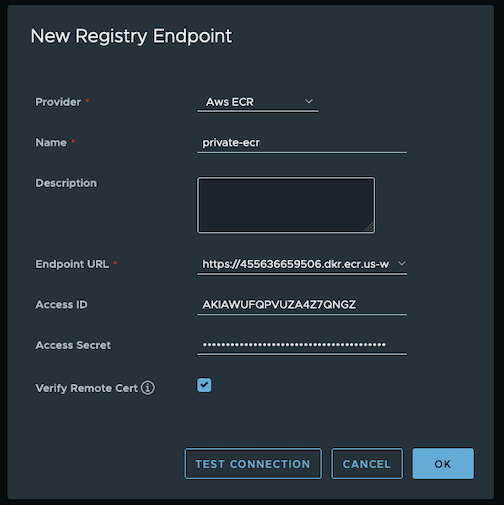
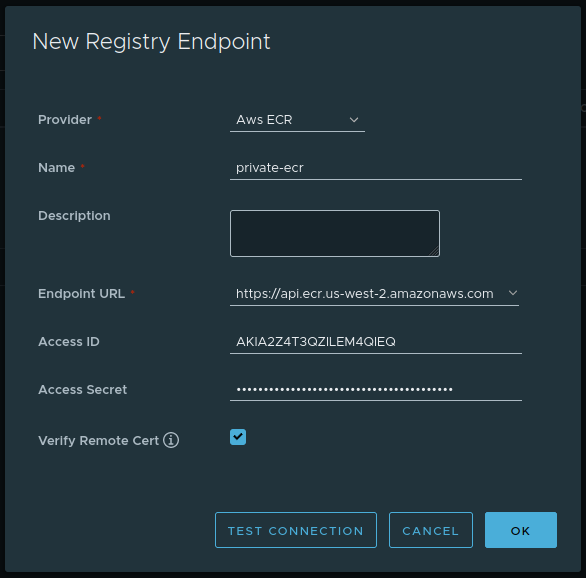
Fix ECR endpoint URL in Harbor use-case doc (#5337)

diff --git a/docs/content/en/docs/workshops/packages/harbor.md b/docs/content/en/docs/workshops/packages/harbor.md
@@ -84,7 +84,7 @@ This use case is to use Harbor to proxy and cache images from a private ECR repo
 
         ![Harbor private ecr user](/images/harbor-private_ecr_user.png)
 
-    Navigate to `Registries` on the left panel, and then click on `NEW ENDPOINT` button. Choose `Aws ECR` as Provider, and enter `private-ecr` as Name, `https://[ACCOUNT NUMBER].dkr.ecr.us-west-2.amazonaws.com/` as Endpoint URL, use the access key ID part of the generated access key as Access ID, and use the secret access key part of the generated access key as Access Secret. Save it by click on OK.
+    Navigate to `Registries` on the left panel, and then click on `NEW ENDPOINT` button. Choose `Aws ECR` as Provider, and enter `private-ecr` as Name, `https://api.ecr.[REGION].amazonaws.com/` as Endpoint URL, use the access key ID part of the generated access key as Access ID, and use the secret access key part of the generated access key as Access Secret. Save it by click on OK.
 
     ![Harbor private ecr proxy](/images/harbor-private_ecr_proxy.png)
 
@@ -159,7 +159,7 @@ This use case is to use Harbor to replicate local images and charts to a private
 
         ![Harbor private ecr user](/images/harbor-private_ecr_user.png)
 
-    Navigate to `Registries` on the left panel, and then click on the `NEW ENDPOINT` button. Choose `Aws ECR` as the Provider, and enter `private-ecr` as the Name, `https://[ACCOUNT NUMBER].dkr.ecr.us-west-2.amazonaws.com/` as the Endpoint URL, use the access key ID part of the generated access key as Access ID, and use the secret access key part of the generated access key as Access Secret. Save it by clicking on OK.
+    Navigate to `Registries` on the left panel, and then click on the `NEW ENDPOINT` button. Choose `Aws ECR` as the Provider, and enter `private-ecr` as the Name, `https://api.ecr.[REGION].amazonaws.com/` as the Endpoint URL, use the access key ID part of the generated access key as Access ID, and use the secret access key part of the generated access key as Access Secret. Save it by clicking on OK.
 
     ![Harbor private ecr proxy](/images/harbor-private_ecr_proxy.png)
 
